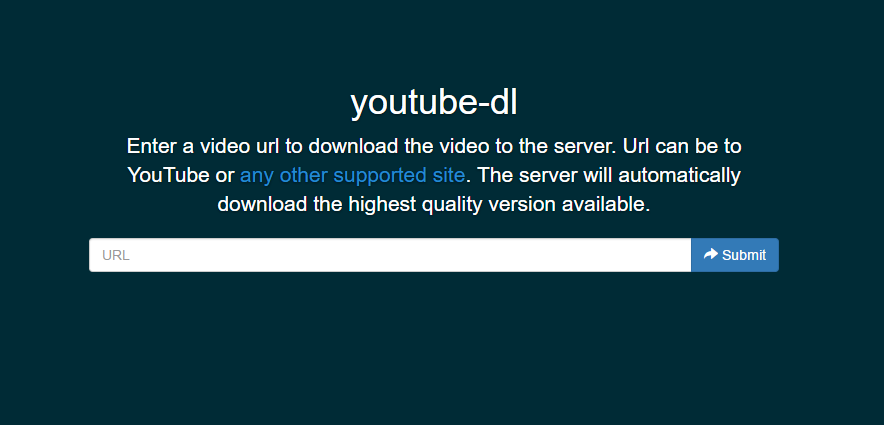
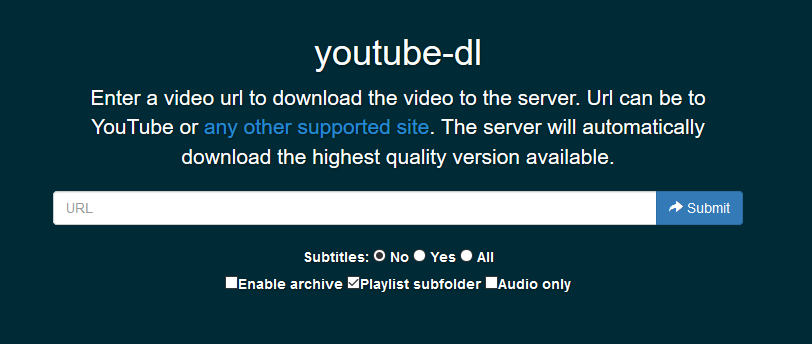
Audio only added

Changed region(s): [[0.0924, 0.1163, 0.8621, 0.5233], [0.0616, 0.5523, 0.9236, 0.6686], [0.2771, 0.7267, 0.7081, 0.843]]

diff --git a/index.html b/index.html
@@ -35,18 +35,25 @@
                 </button>
               </span>
             </div>
+            <br>
+            <div>
             <fieldset id="subs">
-              <input type="radio" id="write_sub" name="subs" value="write">
-        			<label for="write_sub"> Write Subs</label>
+              <label for="subs">Subtitles: </label>
+              <input type="radio" id="no_subs" name="subs" value="none" checked>
+        			<label for="no_subs"> No</label>
+              <input type="radio" id="write_subs" name="subs" value="write">
+        			<label for="write_subs">Yes</label>
+              <input type="radio" id="all_subs" name="subs" value="all">
+        			<label for="all_subs">All</label>
         			<!-- <input type="radio" id="embed_sub" name="subs" value="embed"> -->
         			<!-- <label for="embed_sub"> Embed Subs</label> -->
               <!-- Embedding does not work with avconv yet. Use ffmpeg instead -->
-        			<input type="radio" id="no_subs" name="subs" value="none" checked>
-        			<label for="no_subs"> No Subs</label>
+
       		</fieldset>
           <label><input type="checkbox" name="archive" value="True">Enable archive</label>
-          <label><input type="checkbox" name="playlistfolder" value="True" checked>Playlist subfolder</label>
-          <label><input type="checkbox" name="audio_only" value="True" checked>Audio only</label>
+          <label><input type="checkbox" name="playlistfolder" value="True">Playlist subfolder</label>
+          <label><input type="checkbox" name="audio_only" value="True">Audio only</label>
+        </div>
           </form>
           </div>
         </div>

diff --git a/youtube-dl-server.py b/youtube-dl-server.py
@@ -57,9 +57,9 @@ def download(item):
     if item["audio_only"] == "True":
         runcall.append("--extract-audio")
 
-    if item["subs"] == "write" or item["subs"] == "embed":
+    if not item["subs"] == "none":
         runcall.append("--write-sub")
-        if sub_lang == "all":
+        if sub_lang == "all" or item["subs"] == "all":
             runcall.append("--all-subs")
         else:
             runcall.extend(["--sub-lang",sub_lang])
